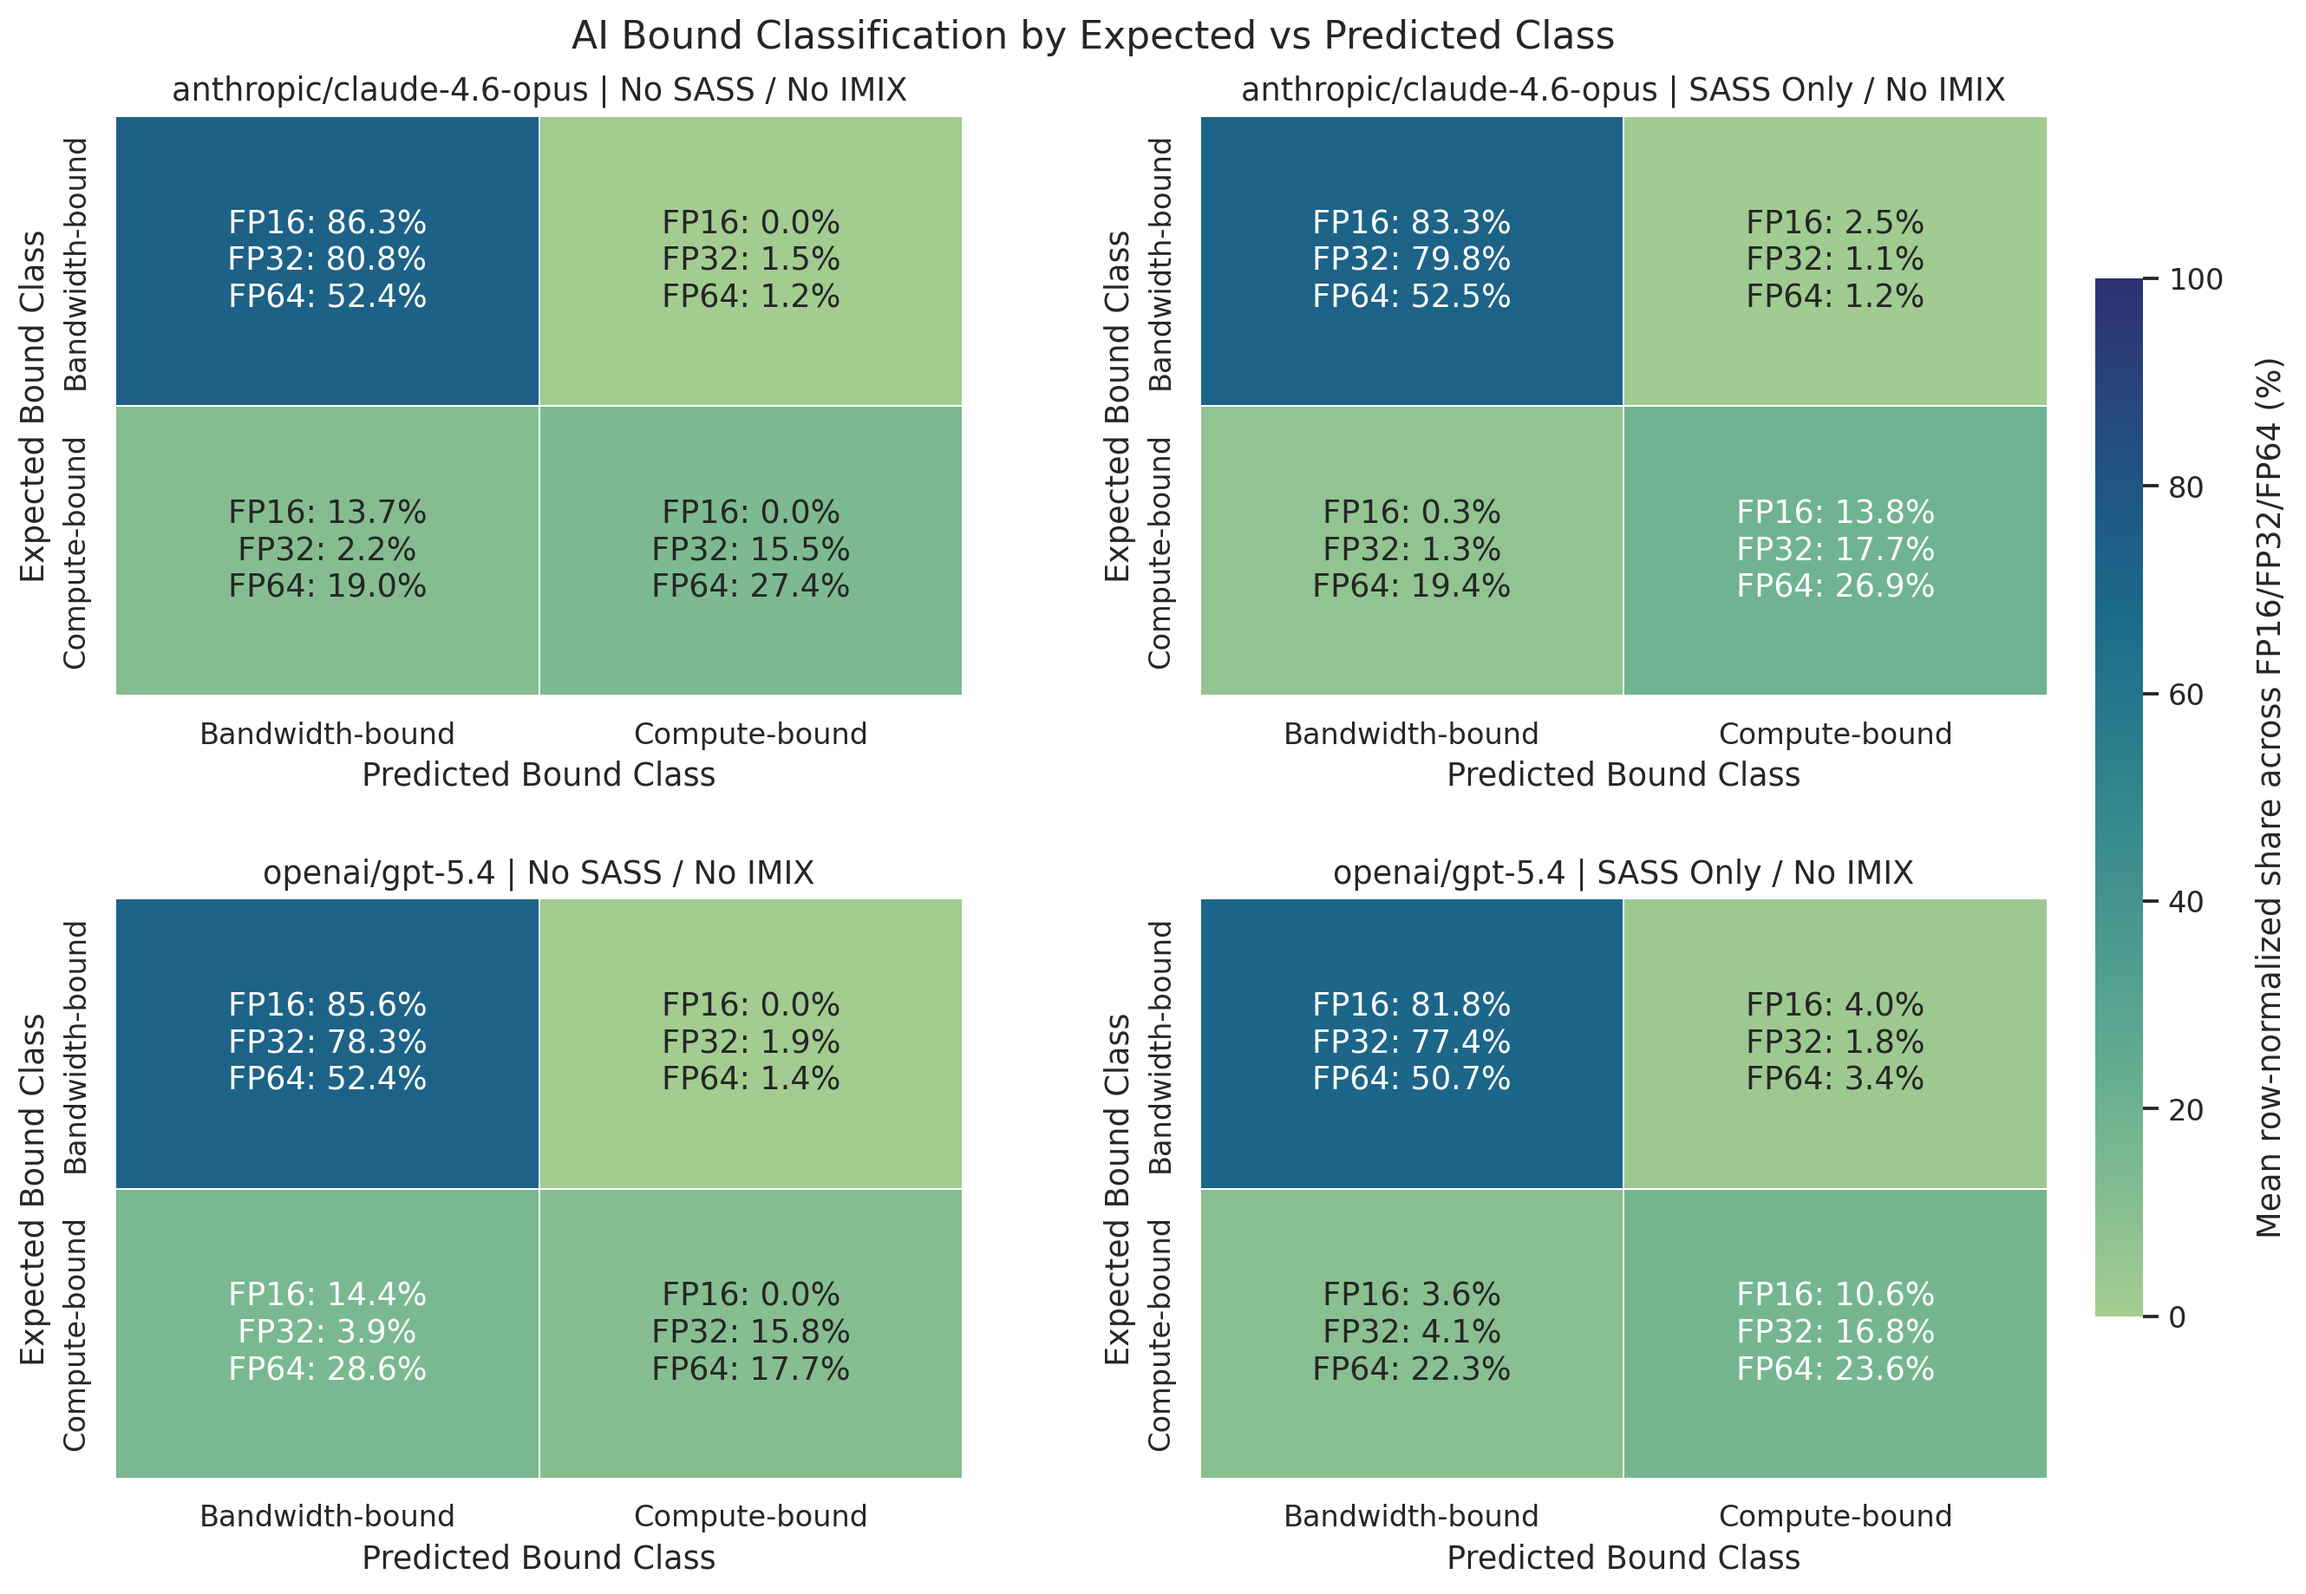
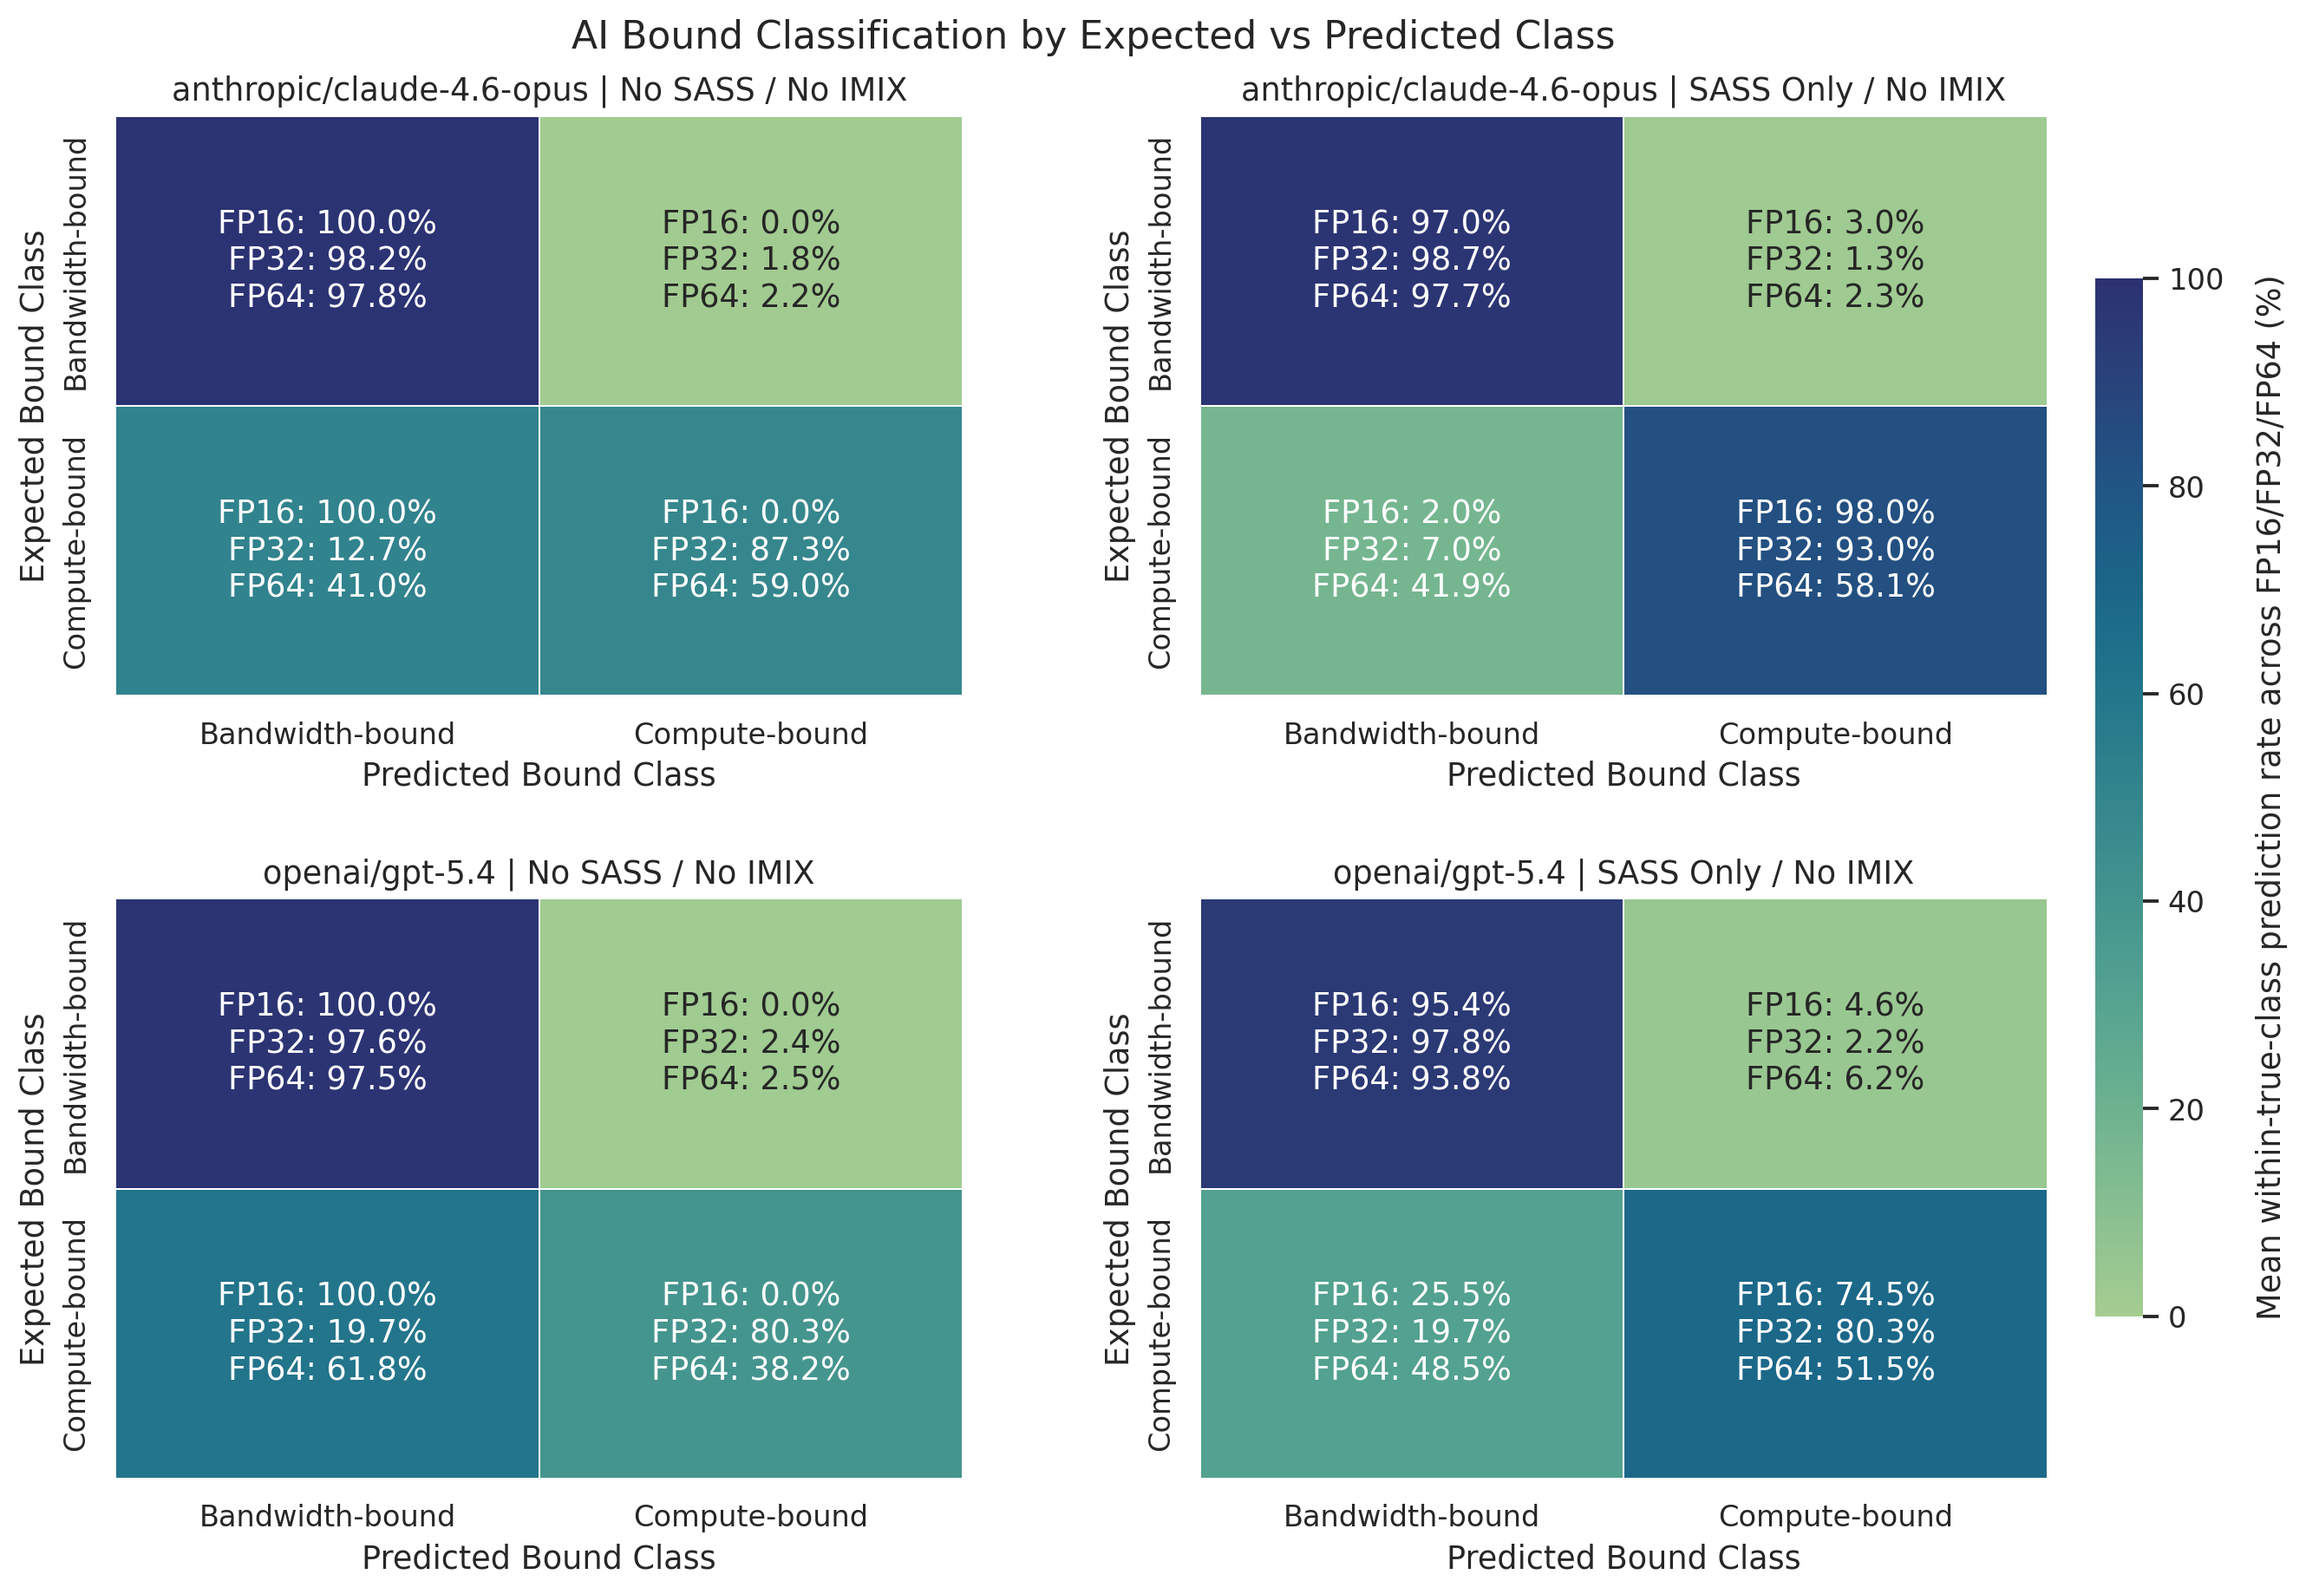
updated heatmaps to better show classification accuracy

diff --git a/experiments/direct-prompting/make_plots_for_paper.py b/experiments/direct-prompting/make_plots_for_paper.py
@@ -363,20 +363,24 @@ def _confusion_heatmap_payload(plot_df: pd.DataFrame, model_name: str, use_sass:
 			predicted_bound = sample[predicted_column]
 			if expected_bound in counts_df.index and predicted_bound in counts_df.columns:
 				counts_df.loc[expected_bound, predicted_bound] += 1.0
-		total = float(counts_df.to_numpy().sum())
-		if total > 0.0:
-			counts_df = counts_df / total * 100.0
+		for expected_bound in BOUND_CLASS_ORDER:
+			row_total = float(counts_df.loc[expected_bound].sum())
+			if row_total > 0.0:
+				counts_df.loc[expected_bound] = counts_df.loc[expected_bound] / row_total * 100.0
 		per_precision_matrices[precision] = counts_df
 
 	mean_matrix = pd.DataFrame(0.0, index=BOUND_CLASS_ORDER, columns=BOUND_CLASS_ORDER)
-	valid_precision_count = 0
+	valid_counts = pd.DataFrame(0.0, index=BOUND_CLASS_ORDER, columns=BOUND_CLASS_ORDER)
 	for precision in AI_PRECISIONS:
 		precision_matrix = per_precision_matrices[precision]
-		if float(precision_matrix.to_numpy().sum()) > 0.0:
-			mean_matrix = mean_matrix + precision_matrix
-			valid_precision_count += 1
-	if valid_precision_count > 0:
-		mean_matrix = mean_matrix / valid_precision_count
+		for expected_bound in BOUND_CLASS_ORDER:
+			row_total = float(precision_matrix.loc[expected_bound].sum())
+			if row_total > 0.0:
+				mean_matrix.loc[expected_bound] = mean_matrix.loc[expected_bound] + precision_matrix.loc[expected_bound]
+				valid_counts.loc[expected_bound] = valid_counts.loc[expected_bound] + 1.0
+	with np.errstate(invalid="ignore", divide="ignore"):
+		mean_matrix = mean_matrix.divide(valid_counts.where(valid_counts > 0.0))
+	mean_matrix = mean_matrix.fillna(0.0)
 
 	annotation = np.empty((len(BOUND_CLASS_ORDER), len(BOUND_CLASS_ORDER)), dtype=object)
 	for row_index, expected_bound in enumerate(BOUND_CLASS_ORDER):
@@ -499,7 +503,7 @@ def _save_figure2_bound_heatmaps(plot_df: pd.DataFrame, output_path: Path) -> No
 				axis.set_ylabel("Expected Bound Class")
 
 	if hasattr(cbar_ax, "collections") and cbar_ax.collections:
-		cbar_ax.set_ylabel("Mean row-normalized share across FP16/FP32/FP64 (%)", rotation=90, labelpad=12)
+		cbar_ax.set_ylabel("Mean within-true-class prediction rate across FP16/FP32/FP64 (%)", rotation=90, labelpad=12)
 
 	fig.suptitle("AI Bound Classification by Expected vs Predicted Class")
 	fig.subplots_adjust(left=0.09, right=0.9, top=0.92, bottom=0.08, hspace=0.35, wspace=0.28)
